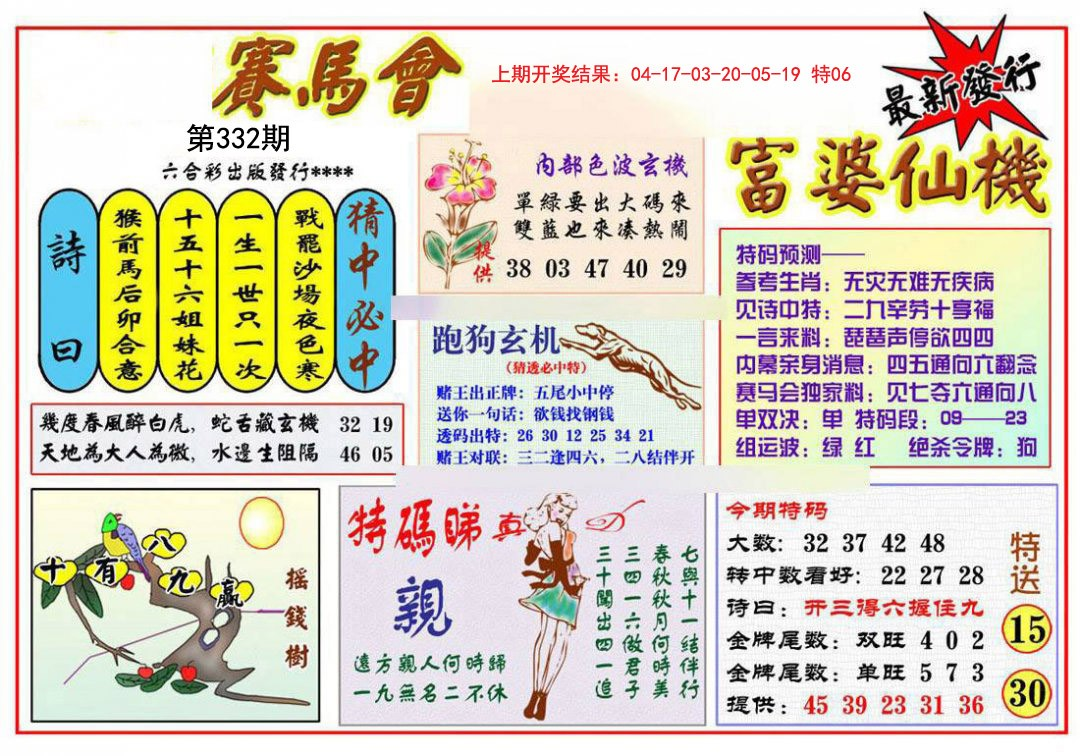
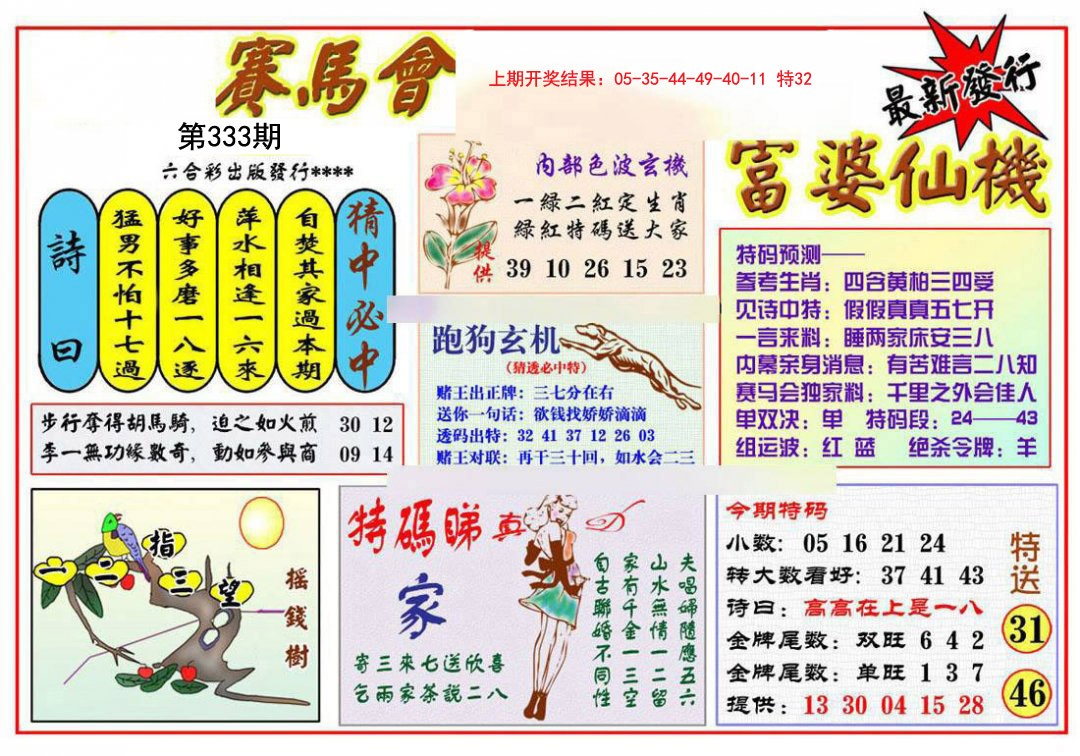
Update:  2024.11.28 12:20:40

diff --git a/Script/Src/xjw/杀两肖图.js b/Script/Src/xjw/杀两肖图.js
@@ -35,7 +35,7 @@ document.writeln("	");
 document.writeln("			<tr style=\'box-sizing: border-box;\'>");
 document.writeln("			<td height=\'40\' style=\'box-sizing: border-box;\'>");
 document.writeln("			");
-document.writeln("<a target=\'_blank\' href=\'https://x1.xn--c2be8bbg0fl3ewb.xn--i1b6b1a6a2e:8443/#/picture/28585\'><img src=\'https://amo.ahhjzh.com:4949/col/332/c002.jpg\'  width=\'49%\'></a>");
+document.writeln("<a target=\'_blank\' href=\'https://x1.xn--c2be8bbg0fl3ewb.xn--i1b6b1a6a2e:8443/#/picture/28585\'><img src=\'https://amo.ahhjzh.com:4949/col/333/c002.jpg\'  width=\'49%\'></a>");
 document.writeln("<a target=\'_blank\' href=\'https://x1.xn--c2be8bbg0fl3ewb.xn--i1b6b1a6a2e:8443/#/picture/209029\'><img src=\'https://amo.ahhjzh.com:4949/col/333/hj44.jpg\'  width=\'49%\'></a>");
 document.writeln("		</td></tr>");
 document.writeln("		");

diff --git a/Script/Src/xjw/xj18m.js b/Script/Src/xjw/xj18m.js
@@ -29,7 +29,7 @@ document.writeln("</style>");
 document.writeln("");
 document.writeln("<body>");
 document.writeln("  ");
-document.writeln("<img src=\"https://amo.ahhjzh.com:4949/col/332/amzy.jpg\" alt=\"\" width=\"100%\">");
+document.writeln("<img src=\"https://amo.ahhjzh.com:4949/col/333/amzy.jpg\" alt=\"\" width=\"100%\">");
 document.writeln("");
 document.writeln("  <table border=1 width=100% bgcolor=#ffffff><tbody>");
 document.writeln("<td style=\'border:10px double #8bafaf\' bgcolor=#8bafaf height=50><p align=center>");
